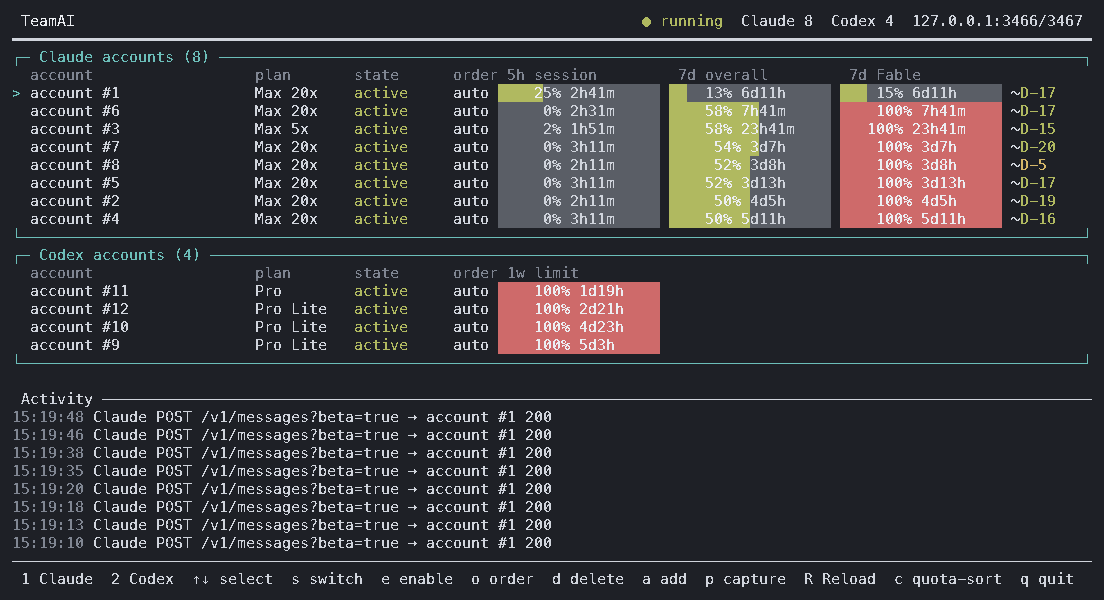
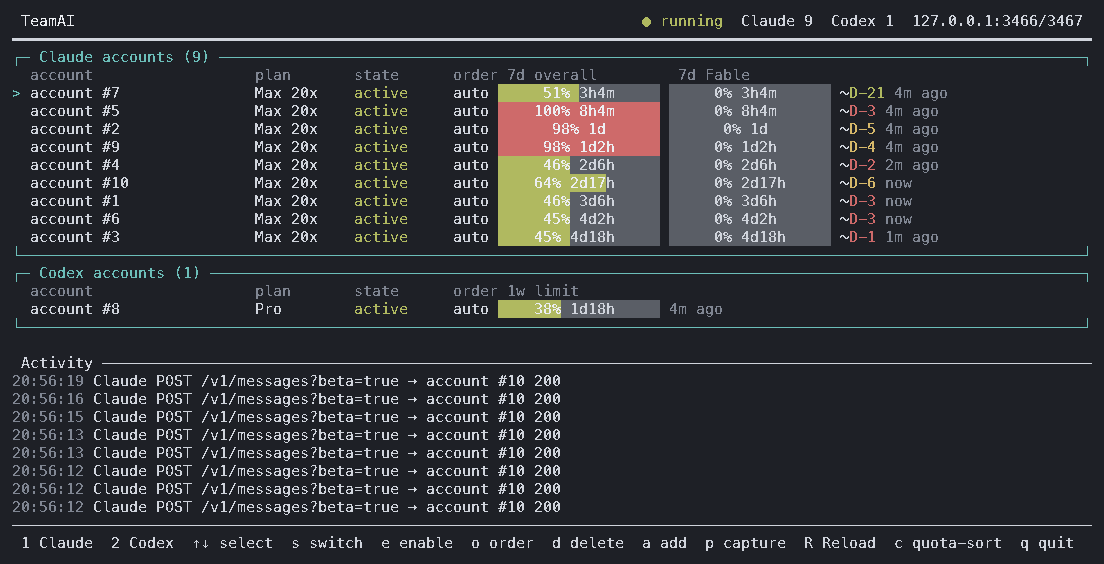
docs(readme): weekly-only Claude limits, Ultra tier, Windows support, new screenshot
- Claude folded the 5-hour session limit into the weekly one: the shared
  window is 7d, and the 5h column shows only while an account reports it.
- Plan tiers now include Ultra; unknown tiers are shown as reported.
- Windows (#4): requirements, manual install steps, .cmd launching, how
  the Claude login URL is opened, and what capture does there.
- Refreshed docs/dashboard.png (redacted capture of the current layout).
- Same changes in the ko, ja, zh-CN and es translations.

Changed region(s): [[0.0, 0.0301, 0.9855, 0.9947]]

diff --git a/README.ko.md b/README.ko.md
@@ -13,9 +13,9 @@ TeamAI는 **Claude Code**와 공식 **Codex CLI**를 위한 로컬 다중 계정
 ## 요구 사항
 
 - Node.js 20 이상
-- macOS 또는 Linux
+- macOS, Linux 또는 Windows
 - `claude` 및/또는 `codex` 별도 설치
-- 본인 소유의 Claude Pro/Max 또는 ChatGPT Codex 구독 계정
+- 본인 소유의 Claude Pro/Max/Ultra 또는 ChatGPT Codex 구독 계정
 
 ## 설치
 
@@ -34,6 +34,8 @@ npm install
 npm run build          # 필수: dist/는 저장소에 포함되지 않습니다
 npm link
 ```
+
+Windows에서는 `install.sh`에 bash 셸이 필요하므로 위 수동 절차를 쓰세요. `npm link`가 `cmd.exe`·PowerShell용 `teamai`/`tai`/`tac`/`tax` 명령을 만들고, 실행기는 npm으로 설치된 `claude.cmd`/`codex.cmd`를 모든 인자를 `cmd.exe`용으로 escape해 실행합니다. 아래 셸 설정과 로그인 항목 절은 macOS·Linux용입니다.
 
 AI 에이전트로 설치를 자동화하시나요? [AGENTS.md](AGENTS.md)에 같은 절차가 검증 단계와 실패 분기를 갖춘 결정적 명령으로 정리돼 있습니다.
 
@@ -106,6 +108,8 @@ Node 경로는 `command -v node`로 확인한 실제 경로를 넣으세요. Lau
 
 Codex는 평소의 브라우저 로그인 절차를 그대로 씁니다. TeamAI는 ChatGPT의 선택적 기기 코드(device-code) 인증 설정을 켜둘 것을 요구하지 않습니다.
 
+Claude 로그인은 기본 브라우저로 인증 페이지를 엽니다(macOS `open`, Linux `xdg-open`, Windows `rundll32`). URL은 항상 함께 출력되므로, 브라우저를 열 수 없는 헤드리스 서버에서도 로그인이 멈추지 않습니다 — 아무 기기에서 그 URL을 열어 마치면 됩니다.
+
 자격증명 가져오기는 선택 사항이며, 내보내기 가능한 자격증명 파일이 있을 때만 동작합니다.
 
 ```bash
@@ -138,13 +142,13 @@ teamai capture [--redact partial|full|none] [--out DIR]   # 대시보드를 .txt
 
 **모델 인식 라우팅.** 모델별 주간 창을 소비하는 것은 최상위 모델(Claude의 Fable 등급)뿐이므로, 그것이 필요 없는 요청 — Opus, Sonnet, Haiku — 은 Fable 예산이 아직 남은 계정을 피해 Fable 창을 이미 다 쓴 계정(`fableReserveThreshold` 이상)으로 보내고, 그 그룹 안에서는 전체 주간 창 기준으로 정렬합니다. 이렇게 하면 계정마다 귀한 Fable 예산을 정말 필요한 요청에 남겨 두면서, 그렇지 않으면 놀고 있을 주간 여유분을 활용하게 됩니다. 소진된 계정이 하나도 비어 있지 않으면 실패하는 대신 예약된 계정으로 되돌아갑니다. Fable 요청은 그대로 적게 쓴 순을 따르며, `fableReserveThreshold`를 `1`로 두면 이 분리를 끕니다.
 
-Fable 등급 429(`7d_oi`는 거절됐지만 공유 `5h`/`7d` 창은 아직 허용된 경우)는 계정 전체가 아니라 그 계정의 Fable 창만 벤치합니다 — 최상위 모델만 소비하는 예산 때문에 계정 전체를 최대 일주일 놀리는 대신, 다른 모델은 그 계정에서 계속 처리됩니다. 공유 창을 거절하는 429는 평소대로 계정 전체를 벤치합니다.
+Fable 등급 429(`7d_oi`는 거절됐지만 공유 `7d` 창은 아직 허용된 경우)는 계정 전체가 아니라 그 계정의 Fable 창만 벤치합니다 — 최상위 모델만 소비하는 예산 때문에 계정 전체를 최대 일주일 놀리는 대신, 다른 모델은 그 계정에서 계속 처리됩니다. 공유 창을 거절하는 429는 평소대로 계정 전체를 벤치합니다.
 
-전체 화면 TUI는 Claude와 Codex 계정을 그룹으로 묶고, 사용량이 바뀌어도 현재 선택된 계정을 고정해 둡니다. Claude 행은 `5h session`, `7d overall`, 모델 범위의 `7d Fable` 창을 각각 보여주고, Codex 행은 주/부 창을 해당 계정이 실제로 보고한 기간을 제목으로 달아(`1w limit`) 보여줍니다. 할당량은 공식 클라이언트 응답에서 학습하며 재시작해도 유지됩니다.
+전체 화면 TUI는 Claude와 Codex 계정을 그룹으로 묶고, 사용량이 바뀌어도 현재 선택된 계정을 고정해 둡니다. Claude 행은 `7d overall`과 모델 범위의 `7d Fable` 창을 각각 보여주고(Claude가 2026년 11월 5시간 세션 한도를 주간 한도로 통합했기 때문에, `5h session` 열은 살아 있는 5시간 창을 보고하는 계정이 있을 때만 나타납니다), Codex 행은 주/부 창을 해당 계정이 실제로 보고한 기간을 제목으로 달아(`1w limit`) 보여줍니다. 할당량은 공식 클라이언트 응답에서 학습하며 재시작해도 유지됩니다.
 
-푸터는 TeamClaude와 동일한 계정 워크플로를 제공합니다 — Claude/Codex 실행, 선택, 전환, 활성/비활성, 순서, 삭제, 추가/로그인, 재측정(`R`), 종료. `switch`는 선택한 계정을 해당 제공자 풀의 맨 앞에 고정합니다. 순서 모드에서는 순위를 지정하거나 계정을 자동 스케줄링으로 되돌릴 수 있습니다. Claude 프로필을 갱신하면 요금제 등급과 `past_due` 같은 비정상 구독 상태가 빨간색으로 표시됩니다.
+푸터는 TeamClaude와 동일한 계정 워크플로를 제공합니다 — Claude/Codex 실행, 선택, 전환, 활성/비활성, 순서, 삭제, 추가/로그인, 재측정(`R`), 종료. `switch`는 선택한 계정을 해당 제공자 풀의 맨 앞에 고정합니다. 순서 모드에서는 순위를 지정하거나 계정을 자동 스케줄링으로 되돌릴 수 있습니다. Claude 프로필을 갱신하면 요금제 등급(`Ultra`, `Max 20x`, `Max 5x`, `Pro` — TeamAI가 모르는 등급은 `OAuth`가 아니라 보고된 이름 그대로)과 `past_due` 같은 비정상 구독 상태가 빨간색으로 표시됩니다.
 
-`p`는 대시보드를 캡처해 저장하고, `teamai capture`는 터미널 없이 스크립트나 에이전트에서 같은 일을 합니다. 캡처는 `~/.config/teamai/captures/`(또는 `--out DIR`) 아래 파일 한 쌍으로 남습니다 — 색상을 그대로 담은 텍스트 프레임과, 내장 비트맵 폰트로 그린 같은 프레임의 PNG. Node 외에 필요한 것이 없습니다. 계정 주소는 프레임을 그리기 전에 마스킹되므로 계정 열·푸터·활동 로그 어디에도 남지 않습니다. 기본은 `de•••••••••w@gm•••.com` 형태의 부분 마스킹이고, `--redact full`은 `account #N`으로 바꾸며, `--redact none`은 혼자 볼 캡처를 위해 주소를 그대로 둡니다. 대시보드에서 `p`를 누르면 저장에 더해 파일 관리자에서 그 PNG를 선택한 채로 열고 이미지를 클립보드에 복사합니다 — macOS는 바로 되고, Linux는 `xdg-open`과 `wl-copy` 또는 `xclip`이 있을 때 됩니다. 어느 것이 실제로 됐는지는 푸터에 표시됩니다. 이 README 상단의 이미지도 그렇게 만든 캡처입니다.
+`p`는 대시보드를 캡처해 저장하고, `teamai capture`는 터미널 없이 스크립트나 에이전트에서 같은 일을 합니다. 캡처는 `~/.config/teamai/captures/`(또는 `--out DIR`) 아래 파일 한 쌍으로 남습니다 — 색상을 그대로 담은 텍스트 프레임과, 내장 비트맵 폰트로 그린 같은 프레임의 PNG. Node 외에 필요한 것이 없습니다. 계정 주소는 프레임을 그리기 전에 마스킹되므로 계정 열·푸터·활동 로그 어디에도 남지 않습니다. 기본은 `de•••••••••w@gm•••.com` 형태의 부분 마스킹이고, `--redact full`은 `account #N`으로 바꾸며, `--redact none`은 혼자 볼 캡처를 위해 주소를 그대로 둡니다. 대시보드에서 `p`를 누르면 저장에 더해 파일 관리자에서 그 PNG를 선택한 채로 열고 이미지를 클립보드에 복사합니다 — macOS는 바로 되고, Linux는 `xdg-open`과 `wl-copy` 또는 `xclip`이 있을 때 되며, Windows에서는 파일만 저장되고 두 동작은 하지 않습니다. 어느 것이 실제로 됐는지는 푸터에 표시됩니다. 이 README 상단의 이미지도 그렇게 만든 캡처입니다.
 
 `R`은 전체 계정의 할당량을 다시 측정합니다. 할당량은 별도 엔드포인트를 폴링해서 얻는 것이 아니라 업스트림이 돌려주는 rate-limit 헤더에서 학습하므로, 트래픽을 한 번도 처리하지 않은 계정은 무언가 측정하기 전까지 `-`로 표시됩니다. `R`은 이미 수용된 것으로 확인된 요청 형태를 유휴 상태의 모든 계정에 병렬로 재생하고(이미 측정된 계정과 스로틀된 계정도 포함 — 그쪽 429 응답도 신뢰할 수 있는 헤더를 담고 있습니다) `measured/targets` 개수를 정직하게 보고합니다. 그 요청 형태는 프록시를 실제로 통과한 2xx 응답에서만 확정되므로, 요청이 한 번도 성공하지 않았다면 `R`은 페이로드를 추측하는 대신 아직 프로브 템플릿이 없다고 알립니다. 모델 범위 주간(Fable) 창이 없는 계정에는 보충 프로브를 한 번 더 보냅니다 — 그 창은 Fable 등급 요청에 대한 응답에만 나타나기 때문입니다.
 

diff --git a/README.es.md b/README.es.md
@@ -13,9 +13,9 @@ TeamAI es un relé local multicuenta para **Claude Code** y la CLI oficial de **
 ## Requisitos
 
 - Node.js 20 o superior
-- macOS o Linux
+- macOS, Linux o Windows
 - `claude` y/o `codex` instalados por separado
-- Tus propias cuentas de suscripción Claude Pro/Max o ChatGPT Codex
+- Tus propias cuentas de suscripción Claude Pro/Max/Ultra o ChatGPT Codex
 
 ## Instalación
 
@@ -37,6 +37,12 @@ npm install
 npm run build          # obligatorio: dist/ no está versionado
 npm link
 ```
+
+En Windows, `install.sh` necesita un shell bash, así que usa los pasos manuales de arriba.
+`npm link` crea los comandos `teamai`/`tai`/`tac`/`tax` para `cmd.exe` y
+PowerShell, y los lanzadores ejecutan los `claude.cmd`/`codex.cmd` instalados con
+npm escapando cada argumento para `cmd.exe`. Las secciones de configuración del
+shell y de elemento de inicio de sesión son para macOS y Linux.
 
 ¿Quieres automatizar esto desde un agente de IA? Consulta [AGENTS.md](AGENTS.md),
 que expone los mismos pasos como comandos deterministas con verificación y
@@ -129,6 +135,8 @@ hereda el PATH de tu shell.
 
 Codex usa su flujo habitual de inicio de sesión por navegador. TeamAI no requiere que esté habilitada la opción de autenticación por código de dispositivo de ChatGPT.
 
+El inicio de sesión de Claude abre la página de autorización en el navegador predeterminado (`open` en macOS, `xdg-open` en Linux, `rundll32` en Windows). La URL también se imprime siempre, así que en una máquina sin interfaz ni navegador el inicio de sesión sigue adelante: ábrela en cualquier equipo y termina allí.
+
 Importar credenciales es opcional y solo funciona cuando existe un archivo de credenciales exportable:
 
 ```bash
@@ -181,18 +189,18 @@ disponible, la solicitud recae en una reservada en lugar de fallar. Una
 solicitud Fable conserva el orden normal de menor consumo; pon
 `fableReserveThreshold` en `1` para desactivar la separación.
 
-Un 429 de nivel Fable (`7d_oi` rechazada mientras las ventanas compartidas
-`5h`/`7d` siguen permitidas) solo limita la ventana Fable de esa cuenta, no la
+Un 429 de nivel Fable (`7d_oi` rechazada mientras la ventana compartida
+`7d` sigue permitida) solo limita la ventana Fable de esa cuenta, no la
 cuenta: todos los demás modelos se siguen atendiendo desde ella, en vez de que
 la cuenta entera quede inactiva hasta una semana por un presupuesto que solo
 consume el modelo superior. Un 429 que rechaza una ventana compartida limita la
 cuenta como de costumbre.
 
-La TUI a pantalla completa agrupa las cuentas de Claude y de Codex, y mantiene anclada la cuenta seleccionada aunque cambie el uso. Las filas de Claude muestran de forma independiente las ventanas `5h session`, `7d overall` y la ventana por modelo `7d Fable`; las filas de Codex muestran su ventana primaria y secundaria, cada una titulada con el periodo que esa cuenta realmente reporta (`1w limit`). Las cuotas se aprenden de las respuestas del cliente oficial y se conservan entre reinicios.
+La TUI a pantalla completa agrupa las cuentas de Claude y de Codex, y mantiene anclada la cuenta seleccionada aunque cambie el uso. Las filas de Claude muestran de forma independiente la ventana `7d overall` y la ventana por modelo `7d Fable` (Claude integró su límite de sesión de 5 horas en el semanal en noviembre de 2026, así que la columna `5h session` solo aparece mientras alguna cuenta siga reportando una ventana de 5 horas activa); las filas de Codex muestran su ventana primaria y secundaria, cada una titulada con el periodo que esa cuenta realmente reporta (`1w limit`). Las cuotas se aprenden de las respuestas del cliente oficial y se conservan entre reinicios.
 
-El pie de página ofrece el mismo flujo de trabajo de cuentas que TeamClaude: lanzar Claude/Codex, seleccionar, cambiar, habilitar/deshabilitar, ordenar, eliminar, agregar/iniciar sesión, volver a medir (`R`) y salir. `switch` fija la cuenta seleccionada al frente del grupo de su proveedor; el modo de orden permite asignar un puesto o devolver una cuenta a la programación automática. Al actualizar el perfil de Claude se muestra el nivel del plan y, en rojo, los estados de suscripción problemáticos como `past_due`.
+El pie de página ofrece el mismo flujo de trabajo de cuentas que TeamClaude: lanzar Claude/Codex, seleccionar, cambiar, habilitar/deshabilitar, ordenar, eliminar, agregar/iniciar sesión, volver a medir (`R`) y salir. `switch` fija la cuenta seleccionada al frente del grupo de su proveedor; el modo de orden permite asignar un puesto o devolver una cuenta a la programación automática. Al actualizar el perfil de Claude se muestra el nivel del plan (`Ultra`, `Max 20x`, `Max 5x`, `Pro`; un nivel que TeamAI no reconoce se muestra con el nombre reportado en lugar de `OAuth`) y, en rojo, los estados de suscripción problemáticos como `past_due`.
 
-`p` guarda una captura del panel, y `teamai capture` hace lo mismo desde un script o un agente sin necesidad de terminal. Cada captura es un par de archivos bajo `~/.config/teamai/captures/` (o `--out DIR`): el cuadro como texto con sus colores intactos, y el mismo cuadro como PNG dibujado con una fuente de mapa de bits integrada, así que no hace falta nada más que Node. Las direcciones de las cuentas se enmascaran antes de dibujar el cuadro —en la columna de cuentas, en el pie y en el registro de actividad por igual— como `de•••••••••w@gm•••.com` de forma predeterminada; `--redact full` las reemplaza por `account #N`, y `--redact none` las conserva para una captura que se quede en privado. Desde el panel, `p` además muestra el PNG en el administrador de archivos y copia la imagen al portapapeles —en macOS sin configurar nada, en Linux si están instalados `xdg-open` y `wl-copy` o `xclip`— y el pie indica cuáles de esas acciones ocurrieron. La imagen al comienzo de este README es una de esas capturas.
+`p` guarda una captura del panel, y `teamai capture` hace lo mismo desde un script o un agente sin necesidad de terminal. Cada captura es un par de archivos bajo `~/.config/teamai/captures/` (o `--out DIR`): el cuadro como texto con sus colores intactos, y el mismo cuadro como PNG dibujado con una fuente de mapa de bits integrada, así que no hace falta nada más que Node. Las direcciones de las cuentas se enmascaran antes de dibujar el cuadro —en la columna de cuentas, en el pie y en el registro de actividad por igual— como `de•••••••••w@gm•••.com` de forma predeterminada; `--redact full` las reemplaza por `account #N`, y `--redact none` las conserva para una captura que se quede en privado. Desde el panel, `p` además muestra el PNG en el administrador de archivos y copia la imagen al portapapeles —en macOS sin configurar nada, en Linux si están instalados `xdg-open` y `wl-copy` o `xclip`, y en Windows solo se guardan los archivos— y el pie indica cuáles de esas acciones ocurrieron. La imagen al comienzo de este README es una de esas capturas.
 
 `R` vuelve a medir la cuota de toda la flota. La cuota nunca se consulta desde un endpoint aparte: se aprende de los encabezados de límite de tasa que devuelve el upstream, así que una cuenta que no ha atendido tráfico muestra `-` hasta que algo la mida. `R` reproduce en paralelo una forma de solicitud que ya se sabe aceptada contra cada cuenta inactiva (incluidas las ya medidas y las limitadas, cuyos 429 igualmente traen encabezados autoritativos) e informa un recuento honesto de `measured/targets`. Esa forma de solicitud solo se fija a partir de un 2xx real que haya pasado por el proxy, de modo que hasta que una solicitud no haya tenido éxito, `R` informa que todavía no existe una plantilla de sondeo en lugar de adivinar una carga útil. Las cuentas a las que les falta la ventana semanal por modelo (Fable) reciben un sondeo complementario adicional, porque esa ventana solo aparece en las respuestas a solicitudes de nivel Fable.
 

diff --git a/README.md b/README.md
@@ -13,9 +13,9 @@ TeamAI is a local multi-account relay for **Claude Code** and the official **Cod
 ## Requirements
 
 - Node.js 20+
-- macOS or Linux
+- macOS, Linux, or Windows
 - `claude` and/or `codex` installed separately
-- Your own Claude Pro/Max or ChatGPT Codex subscription accounts
+- Your own Claude Pro/Max/Ultra or ChatGPT Codex subscription accounts
 
 ## Install
 
@@ -37,6 +37,12 @@ npm install
 npm run build          # required: dist/ is not committed
 npm link
 ```
+
+On Windows, `install.sh` needs a bash shell, so use these manual steps instead.
+`npm link` creates `teamai`/`tai`/`tac`/`tax` commands for `cmd.exe` and
+PowerShell, and the launchers start an npm-installed `claude.cmd`/`codex.cmd`
+with every argument escaped for `cmd.exe`. The shell setup and login-item
+sections below are for macOS and Linux.
 
 Automating this from an AI agent? See [AGENTS.md](AGENTS.md), which states the
 same steps as deterministic commands with verification and failure branches.
@@ -124,6 +130,8 @@ your shell's PATH.
 
 Codex uses its normal browser login flow. TeamAI does not require ChatGPT's optional device-code authentication setting to be enabled.
 
+Claude login opens the authorization page in the default browser (`open` on macOS, `xdg-open` on Linux, `rundll32` on Windows). The URL is always printed too, so on a headless box with no browser opener the login still goes ahead: open it on any machine and finish there.
+
 Credential import is optional and only works when an exportable credential file exists:
 
 ```bash
@@ -174,17 +182,17 @@ falls back to a reserved one rather than failing. A Fable request keeps the
 plain least-spent order; set `fableReserveThreshold` to `1` to turn the split
 off.
 
-A Fable-tier 429 (`7d_oi` rejected while the shared `5h`/`7d` windows are still
+A Fable-tier 429 (`7d_oi` rejected while the shared `7d` window is still
 allowed) benches only that account's Fable window, not the account: every other
 model keeps being served from it, instead of the whole account sitting idle for
 up to a week over a budget only the top model spends. A 429 that rejects a
 shared window benches the account as usual.
 
-The full-screen TUI groups Claude and Codex accounts and keeps the currently selected account anchored even when usage changes. Claude rows show the `5h session`, `7d overall`, and model-scoped `7d Fable` windows independently; Codex rows show its primary and secondary windows, each titled with the span that account actually reports (`1w limit`). Quotas are learned from official-client responses and retained across restarts.
+The full-screen TUI groups Claude and Codex accounts and keeps the currently selected account anchored even when usage changes. Claude rows show the `7d overall` and model-scoped `7d Fable` windows independently — Claude folded its 5-hour session limit into the weekly one in November 2026, so a `5h session` column appears only while some account still reports a live 5-hour window; Codex rows show its primary and secondary windows, each titled with the span that account actually reports (`1w limit`). Quotas are learned from official-client responses and retained across restarts.
 
-The footer exposes the same account workflow as TeamClaude: launch Claude/Codex, select, switch, enable/disable, order, delete, add/login, re-measure (`R`), and quit. `switch` pins the selected account to the front of its provider pool; order mode can assign a rank or return an account to automatic scheduling. Claude profile refreshes show the plan tier and unhealthy subscription states such as `past_due` in red.
+The footer exposes the same account workflow as TeamClaude: launch Claude/Codex, select, switch, enable/disable, order, delete, add/login, re-measure (`R`), and quit. `switch` pins the selected account to the front of its provider pool; order mode can assign a rank or return an account to automatic scheduling. Claude profile refreshes show the plan tier (`Ultra`, `Max 20x`, `Max 5x`, `Pro`; a tier TeamAI does not recognise is shown by its reported name rather than as `OAuth`) and unhealthy subscription states such as `past_due` in red.
 
-`p` saves a capture of the dashboard, and `teamai capture` does the same from a script or an agent, no terminal required. Each capture is a pair of files under `~/.config/teamai/captures/` (or `--out DIR`): the frame as text with its colors intact, and the same frame as a PNG drawn with a built-in bitmap font, so nothing beyond Node is needed. Account addresses are masked before the frame is drawn — in the account column, the footer and the activity log alike — as `de•••••••••w@gm•••.com` by default; `--redact full` replaces them with `account #N`, and `--redact none` keeps them for a capture that stays private. From the dashboard, `p` also reveals the PNG in your file manager and puts the image on the clipboard — on macOS out of the box, on Linux where `xdg-open` and `wl-copy` or `xclip` are installed — and the footer says which of those happened. The image at the top of this README is one such capture.
+`p` saves a capture of the dashboard, and `teamai capture` does the same from a script or an agent, no terminal required. Each capture is a pair of files under `~/.config/teamai/captures/` (or `--out DIR`): the frame as text with its colors intact, and the same frame as a PNG drawn with a built-in bitmap font, so nothing beyond Node is needed. Account addresses are masked before the frame is drawn — in the account column, the footer and the activity log alike — as `de•••••••••w@gm•••.com` by default; `--redact full` replaces them with `account #N`, and `--redact none` keeps them for a capture that stays private. From the dashboard, `p` also reveals the PNG in your file manager and puts the image on the clipboard — on macOS out of the box, on Linux where `xdg-open` and `wl-copy` or `xclip` are installed; on Windows the files are saved but neither step runs — and the footer says which of those happened. The image at the top of this README is one such capture.
 
 `R` re-measures quota across the whole fleet. Quota is never polled from a separate endpoint — it is learned from the rate-limit headers upstream returns, so an account that has served no traffic shows `-` until something measures it. `R` replays a known-accepted request shape against every idle account in parallel (including already-measured and throttled ones, whose 429s still carry authoritative headers) and reports an honest `measured/targets` count. That shape is committed only from a real 2xx that flowed through the proxy, so until one request has succeeded `R` reports that no probe template exists yet rather than guessing a payload. Accounts missing the model-scoped weekly (Fable) window get one extra top-up probe, because that window only appears on responses to Fable-tier requests.
 
